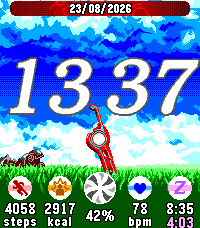
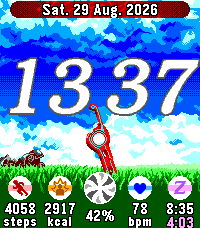
Enlarge the date
It's now more readable, plus the format now displays the day too!

Changed region(s): [[0.06, 0.0, 0.93, 0.0921], [0.93, 0.0, 0.96, 0.0307]]

diff --git a/src/c/main.c b/src/c/main.c
@@ -94,18 +94,21 @@ static inline void health_layer_set_text_color(Layer * layer, const GColor color
 /*** Calendar ***/
 // Header bitmap
 static GBitmap *s_header_bitmap;
-static const GRect s_header_bitmap_draw_grect = GRect(10, 0, 180, 15);
+static const GRect s_header_bitmap_draw_grect = GRect(10, 0, 180, 17);
 // Our own text layer
 static Layer *s_calendar_text_layer;
-static const GRect s_calendar_text_layer_grect = GRect(0, 1, 200, 15);
-static const GRect s_calendar_text_grect = GRect(60, -2, 80, 14);
-static const GRect s_calendar_text_contour_grect = GRect(60, 1, 80, 14);
+static const GRect s_calendar_text_layer_grect = GRect(0, 1, 200, 17);
+static const GRect s_calendar_text_grect = GRect(30, -4, 140, 15);
+static const GRect s_calendar_text_contour_grect = GRect(30, 2, 140, 16);
 // Text buffer
-static char s_calendar_text[11]; // XX/YY/ZZZZ + null terminated
-
+// Format : "Sat 13 Sep 2026" + null terminated
+// In some languages (like French), abbreviated names can take 4 characters
+// That's why the buffer is of size 4+1+2+1+4+1+4+1 = 18
+static char s_calendar_text[18]; // 
 
 /*** Fonts ***/
 GFont s_health_font;
+GFont s_ui_font;
 GFont s_calendar_font;
 
 
@@ -347,7 +350,7 @@ static void draw_time(struct Layer * layer, GContext * ctx) {
 // Only update date when it's 00:00 or if we force it
 static void update_calendar_text(const struct tm * tick_time, const bool force) {
   if (force || (tick_time->tm_min == 0 && tick_time->tm_hour == 0))
-    strftime(s_calendar_text, sizeof(s_calendar_text), "%d/%m/%Y", tick_time);
+    strftime(s_calendar_text, sizeof(s_calendar_text), "%a %d %h %Y", tick_time);
 }
 
 // Draw the date and the header's background
@@ -592,9 +595,9 @@ static void background_draw_one_shot(struct Layer *layer, GContext *ctx) {
   bpm_rect.size.h = 16;
 
   // Draw the texts
-  graphics_draw_text(ctx, steps_text, s_calendar_font, steps_rect, GTextOverflowModeWordWrap, GTextAlignmentCenter, NULL); // steps
-  graphics_draw_text(ctx, kcal_text,  s_calendar_font, kcal_rect,  GTextOverflowModeWordWrap, GTextAlignmentCenter, NULL); // kcal
-  graphics_draw_text(ctx, bpm_text,   s_calendar_font, bpm_rect,   GTextOverflowModeWordWrap, GTextAlignmentCenter, NULL); // bpm
+  graphics_draw_text(ctx, steps_text, s_ui_font, steps_rect, GTextOverflowModeWordWrap, GTextAlignmentCenter, NULL); // steps
+  graphics_draw_text(ctx, kcal_text,  s_ui_font, kcal_rect,  GTextOverflowModeWordWrap, GTextAlignmentCenter, NULL); // kcal
+  graphics_draw_text(ctx, bpm_text,   s_ui_font, bpm_rect,   GTextOverflowModeWordWrap, GTextAlignmentCenter, NULL); // bpm
 
   // Get the framebuffer
   GBitmap * fb = graphics_capture_frame_buffer(ctx);
@@ -742,7 +745,7 @@ static void main_window_load(Window *window) {
    ***** CALENDAR (header)  *****
    ******************************/
 
-  s_header_bitmap = gbitmap_create_with_resource(RESOURCE_ID_BACKGROUND_HEADER); // 180x15
+  s_header_bitmap = gbitmap_create_with_resource(RESOURCE_ID_BACKGROUND_HEADER); // 180x17
   s_calendar_text_layer = layer_create(s_calendar_text_layer_grect);
   layer_set_update_proc(s_calendar_text_layer, proc_draw_calendar);
   layer_add_child(window_layer, s_calendar_text_layer);
@@ -831,13 +834,15 @@ static void main_window_unload(Window *window) {
 static void init() {
   // Get the watch's locale
   memcpy(s_locale, i18n_get_system_locale(), 6);
+  setlocale(LC_ALL, s_locale);
 
   // Create the main window
   s_main_window = window_create();
 
   // Set the fonts
   s_health_font = fonts_get_system_font(FONT_KEY_GOTHIC_18_BOLD);
-  s_calendar_font = fonts_get_system_font(FONT_KEY_GOTHIC_14_BOLD);
+  s_ui_font = fonts_get_system_font(FONT_KEY_GOTHIC_14_BOLD);
+  s_calendar_font = fonts_get_system_font(FONT_KEY_GOTHIC_18_BOLD);
 
   // Setting the handlers
   window_set_window_handlers(s_main_window, (WindowHandlers) {

diff --git a/README.md b/README.md
@@ -26,7 +26,7 @@ A Pebble watchface for the Pebble Time 2 only, featuring a beautiful theme from 
 - Performance and efficiency in mind: I want to use this watchface daily, so extra effort has been put in order for the watchface to be as efficient as possible, even for the text contouring and background scrolling features.
 
 - The UI is automatically translated depending on your language setting! Supports English, French, Spanish, Portuguese, Italian and German!
-  - The date will always be of the form DD/MM/YYYY.
+  - The date will always be of the form `Sun 13 Sep 2026`, if this bothers you, please tell me and I will make it locale dependent (but for now I don't want to bother with that). The abbreviated names for the days and months are translated to your language.
   - _Note: I only speak French and English, if the translations for the other languages are not right, please tell me!_
 
 _Note: I am not a developer, and I learned a lot of C during this project. I extensively searched and asked about my code but I cannot guarantee it is well written. If you want to suggest modifications, please do not hesitate to open a PR!_
